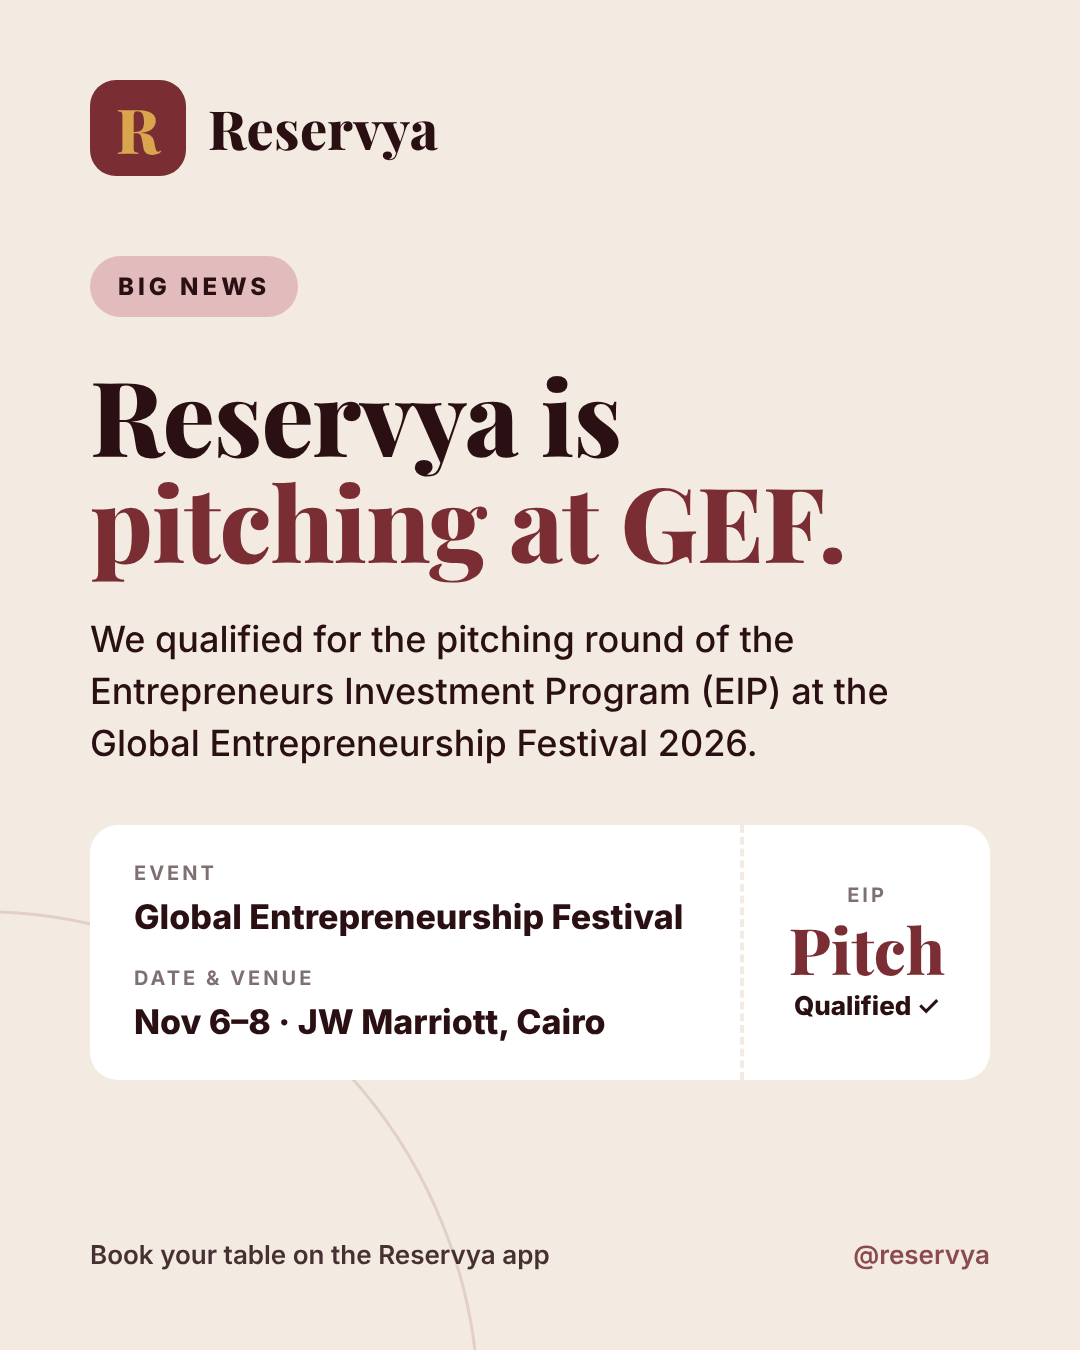
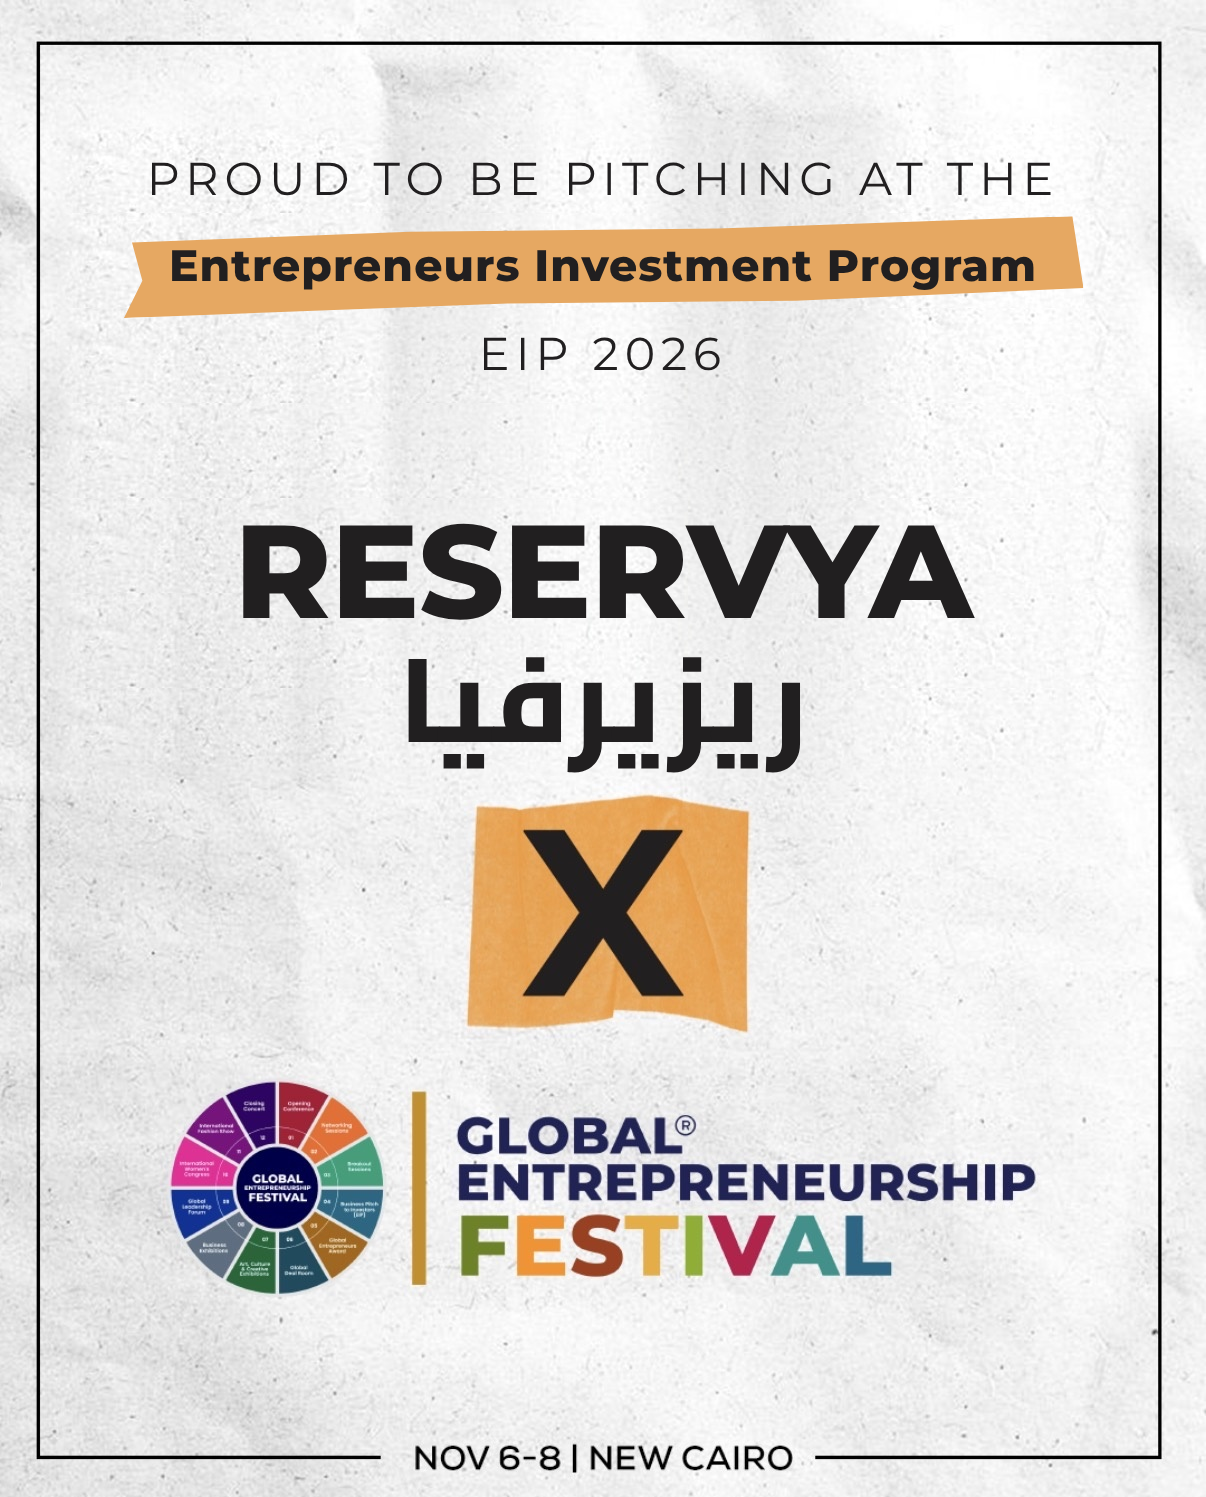
Redo EIP posts in the GEF partner-flyer style (Reservya X GEF)
Claude-Session: https://claude.ai/code/session_016WiCpFQFRysdHR2YgtN6CK

diff --git a/posts/eip-pitch-qualified/render.js b/posts/eip-pitch-qualified/render.js
@@ -1,7 +1,21 @@
-const { chromium } = require('playwright');
+// Renders the GEF partner-style flyers. Run: node render.js
+const fs = require('fs'), { chromium } = require('playwright');
+const posts = {
+  personal: { l1: 'Our Founder &amp; CEO', tape: 'Mina Monir', l3: 'is representing' },
+  reservya: { l1: 'Proud to be pitching at the', tape: 'Entrepreneurs Investment Program', l3: 'EIP 2026', small: true },
+};
+const sec = (id, p) => `<section id="${id}">
+  <div class="c thin" style="top:150px">${p.l1}</div>
+  <div class="c" style="top:226px"><span class="tape"${p.small ? ' style="font-size:44px;padding-top:12px;padding-bottom:16px"' : ''}>${p.tape}</span></div>
+  <div class="c thin" style="top:325px">${p.l3}</div>
+  <div class="c big" style="top:505px">RESERVYA</div>
+  <div class="c ar" style="top:640px">ريزيرفيا</div>
+</section>`;
 (async () => {
-  const b = await chromium.launch(); const p = await b.newPage({ viewport: { width: 1080, height: 1350 } });
-  await p.goto('file://' + __dirname + '/posts.html'); await p.waitForTimeout(1500);
-  for (const id of ['personal', 'reservya']) await (await p.$('#' + id)).screenshot({ path: `${__dirname}/${id}.png` });
+  const html = fs.readFileSync(__dirname + '/flyer.html', 'utf8').replace('<!-- POSTS -->', Object.entries(posts).map(([k, v]) => sec(k, v)).join('\n'));
+  fs.writeFileSync(__dirname + '/flyer.built.html', html);
+  const b = await chromium.launch(), pg = await b.newPage({ viewport: { width: 1206, height: 1497 } });
+  await pg.goto('file://' + __dirname + '/flyer.built.html'); await pg.waitForTimeout(2000);
+  for (const id of Object.keys(posts)) await (await pg.$('#' + id)).screenshot({ path: `${__dirname}/${id}.png` });
   await b.close();
 })();

diff --git a/posts/eip-pitch-qualified/flyer.html b/posts/eip-pitch-qualified/flyer.html
@@ -1,0 +1,15 @@
+<!doctype html><html><head><meta charset="utf-8">
+<link href="https://fonts.googleapis.com/css2?family=Montserrat:wght@300;400;700;800&family=Cairo:wght@700;800&display=swap" rel="stylesheet">
+<style>
+*{margin:0;padding:0;box-sizing:border-box}
+section{width:1206px;height:1497px;position:relative;background:url(assets/bg.jpg) 0 0/1206px 1497px;color:#211f20;font-family:Montserrat}
+.c{position:absolute;left:0;right:0;text-align:center}
+.thin{font:400 46px Montserrat;letter-spacing:6px;text-transform:uppercase}
+.tape{display:inline-block;position:relative;isolation:isolate;font:800 52px Montserrat;letter-spacing:1px;padding:8px 46px 12px}
+.tape::before{content:"";position:absolute;inset:0;background:#e6a862;z-index:-1;transform:rotate(-1.2deg);
+  clip-path:polygon(1% 8%,30% 2%,62% 6%,99% 0,100% 88%,70% 96%,40% 92%,0 100%,2% 55%)}
+.big{font:800 132px/1 Montserrat;letter-spacing:-1px}
+.ar{font:800 118px/1 Cairo}
+</style></head><body>
+<!-- POSTS -->
+</body></html>

diff --git a/posts/eip-pitch-qualified/make_bg.py b/posts/eip-pitch-qualified/make_bg.py
@@ -1,0 +1,20 @@
+# Erase the partner's text from the reference flyer, keeping paper, frame, X tape, GEF logo and date line.
+# Fill = smooth shading interpolated from the clean rows above/below + fine paper grain from a clean strip.
+import sys, numpy as np
+from PIL import Image, ImageFilter
+src = Image.open(sys.argv[1]).convert('RGB'); a = np.asarray(src).astype(float)
+H, W, _ = a.shape
+X0, X1, y0, y1 = 50, 1152, 118, 776
+blur = lambda arr, r: np.asarray(Image.fromarray(arr.clip(0, 255).astype('uint8')).filter(ImageFilter.GaussianBlur(r))).astype(float)
+top = blur(a[y0 - 12:y0, X0:X1], 6).mean(0); bot = blur(a[y1:y1 + 12, X0:X1], 6).mean(0)
+t = np.linspace(0, 1, y1 - y0)[:, None, None]
+shade = top[None] * (1 - t) + bot[None] * t
+band = a[1325:1420, X0:X1]; grain = band - blur(band, 8)
+rows, h, n = [], band.shape[0], y1 - y0
+reps = grain
+fill = shade + np.concatenate([reps] * (n // reps.shape[0] + 1))[:n]
+out = a.copy(); patch = a.copy(); patch[y0:y1, X0:X1] = fill
+mask = np.zeros((H, W)); mask[y0 + 8:y1 - 8, X0 + 14:X1 - 14] = 1
+mask = blur(mask * 255, 6) / 255.0
+out = out * (1 - mask[..., None]) + patch * mask[..., None]
+Image.fromarray(out.clip(0, 255).astype('uint8')).save(sys.argv[2], quality=95)
